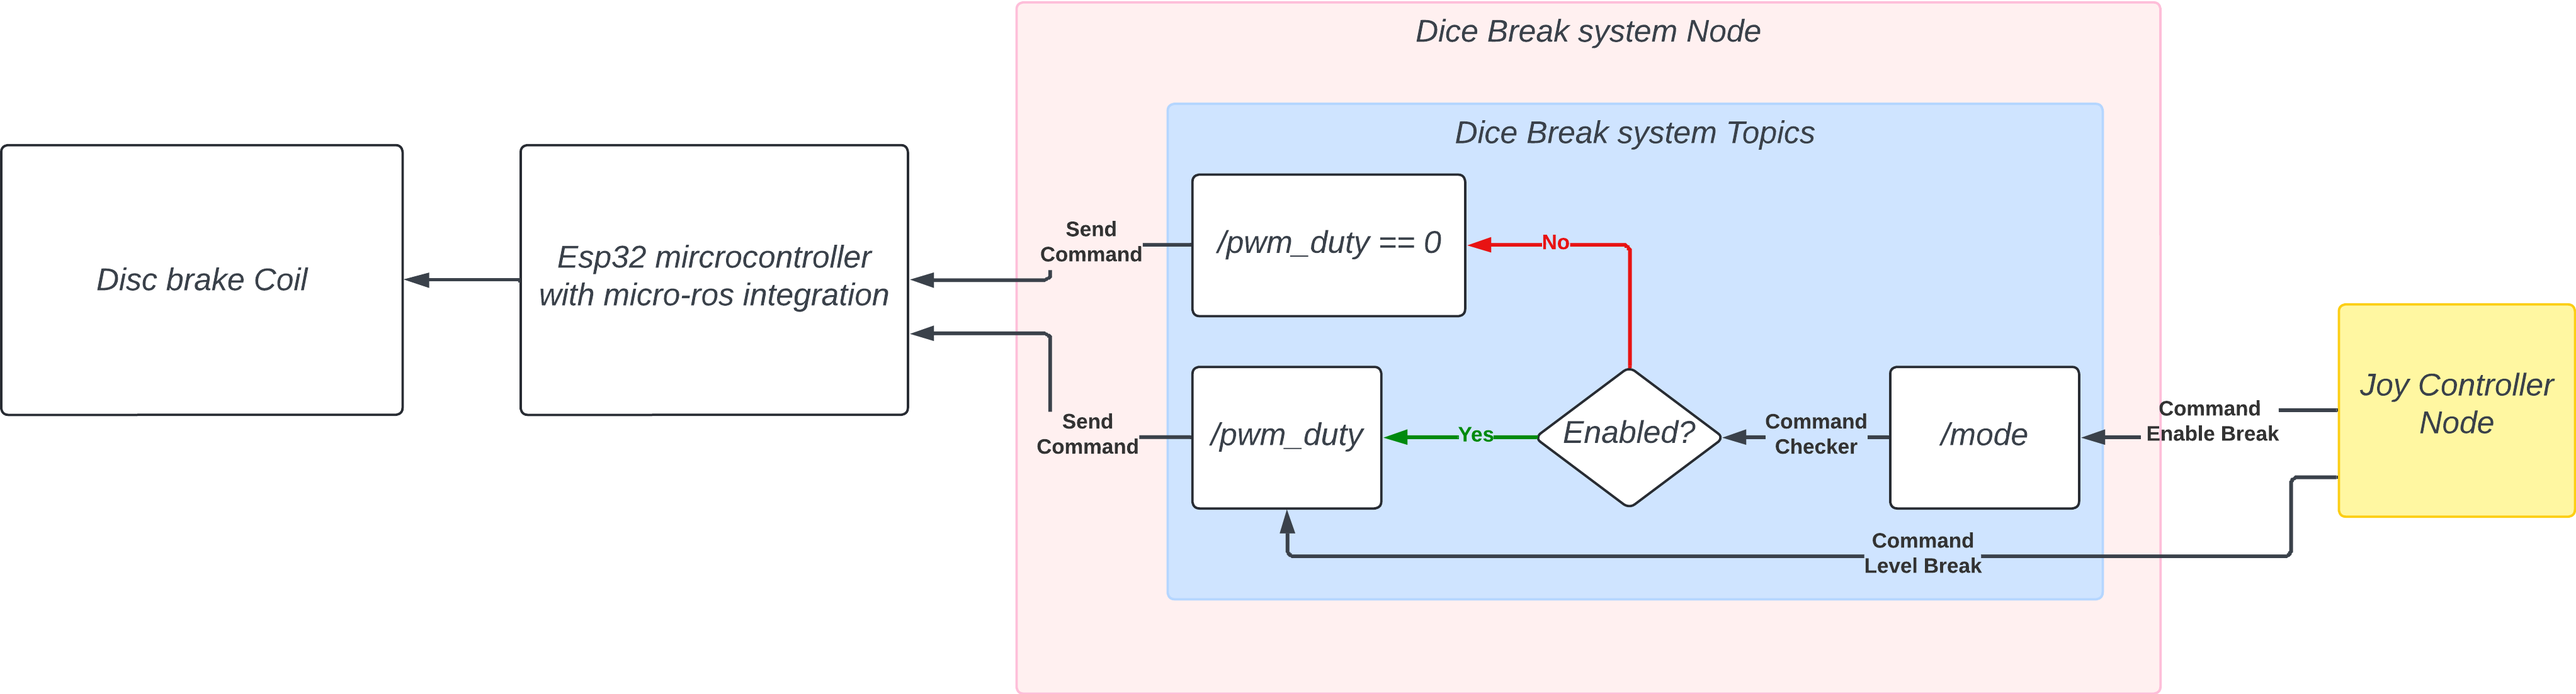
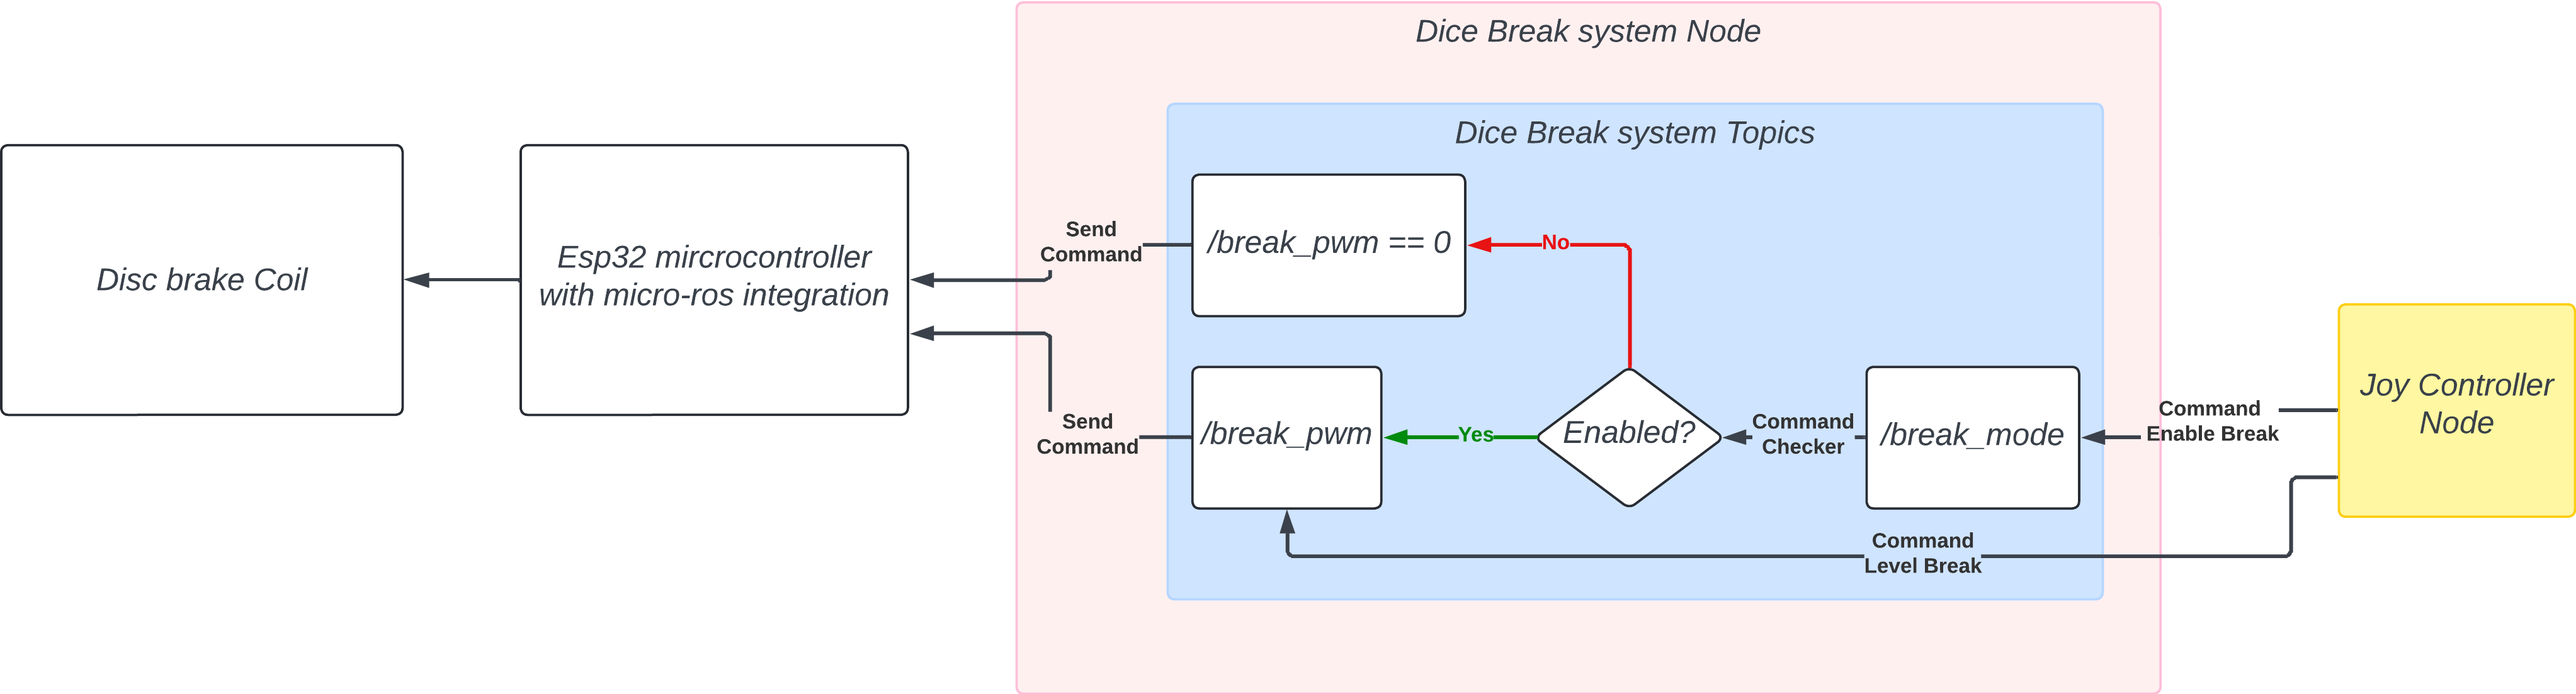
update Readme

Changed region(s): [[0.683, 0.524, 0.8071, 0.7398], [0.4657, 0.3391, 0.5588, 0.3699], [0.4657, 0.6165, 0.5277, 0.6473]]

diff --git a/README.md b/README.md
@@ -45,7 +45,7 @@ The **Break Node System** manages the actuation logic for the disc brake using R
 
 | Component              | Description                                                    |
 | ---------------------- | -------------------------------------------------------------- |
-| Joy Controller Node    | Publishes `/mode` (enable brake) and `/pwm_duty` (brake level) |
+| Joy Controller Node    | Publishes `/break_mode` (enable brake) and `/break_pwm` (brake level) |
 | Dice Break System Node | Checks enable flag, passes duty to ESP32 or zeroes if disabled |
 | ESP32 microcontroller  | Drives brake coil using micro-ROS commands                     |
 
@@ -126,12 +126,12 @@ Expected output:
 /cmd_vel
 /joy
 /joy/set_feedback
-/mode
-/pwm_duty
+/break_mode
+/break_pwm
 ```
 
 > [!WARNING]
-> If `/mode` and `/pwm_duty` are missing, press the reset button on the ESP32.
+> If `/break_mode` and `/break_pwm` are missing, press the reset button on the ESP32.
 ><p align="center">
 >    <img src="./images/esp32_resetbutton.png" alt="ESP32 Reset Button" width="400" />
 ></p>
